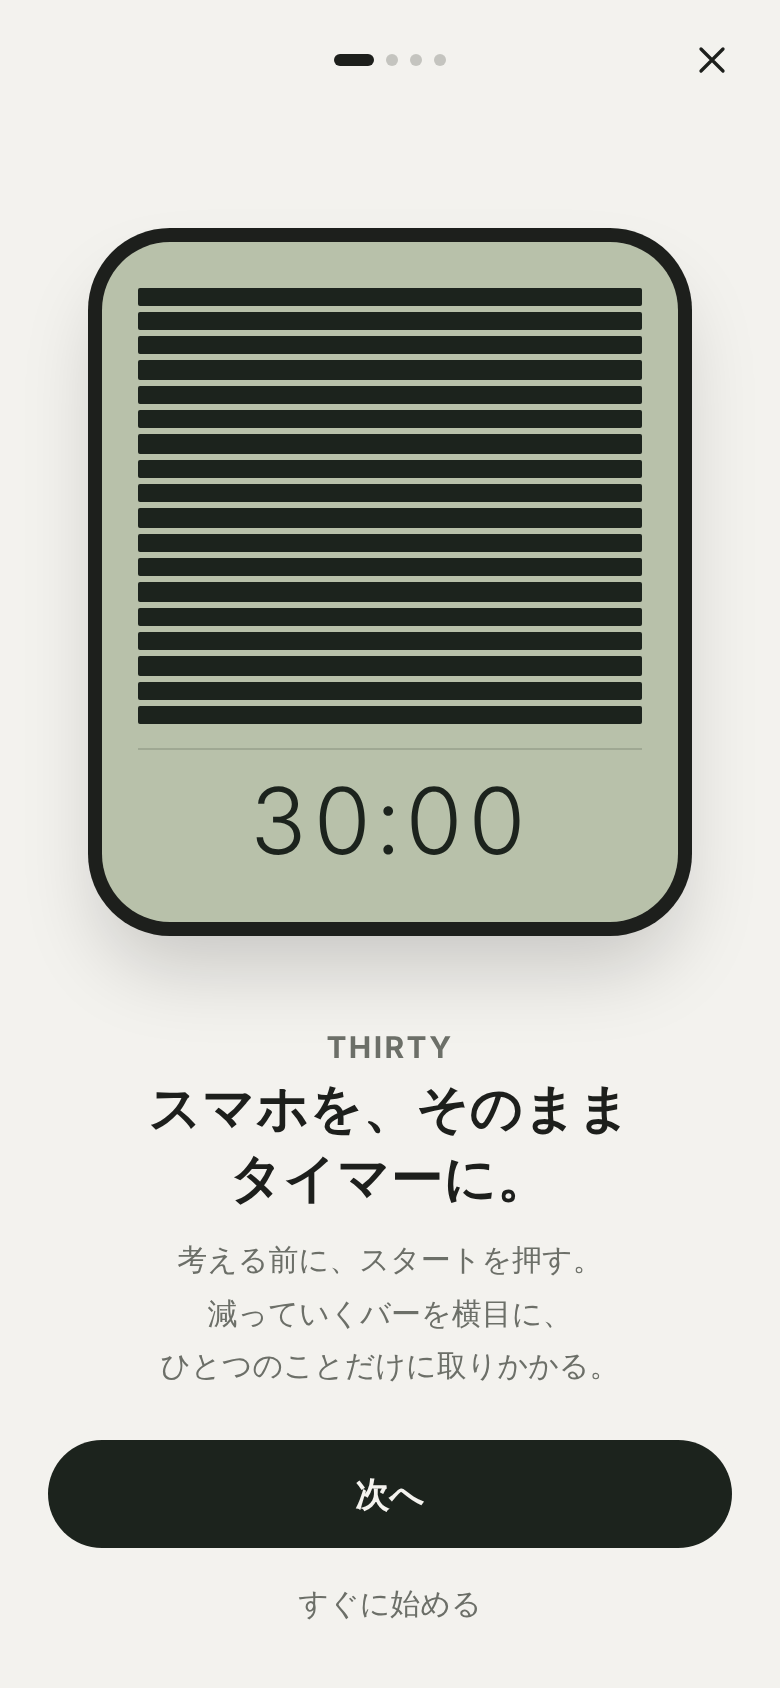
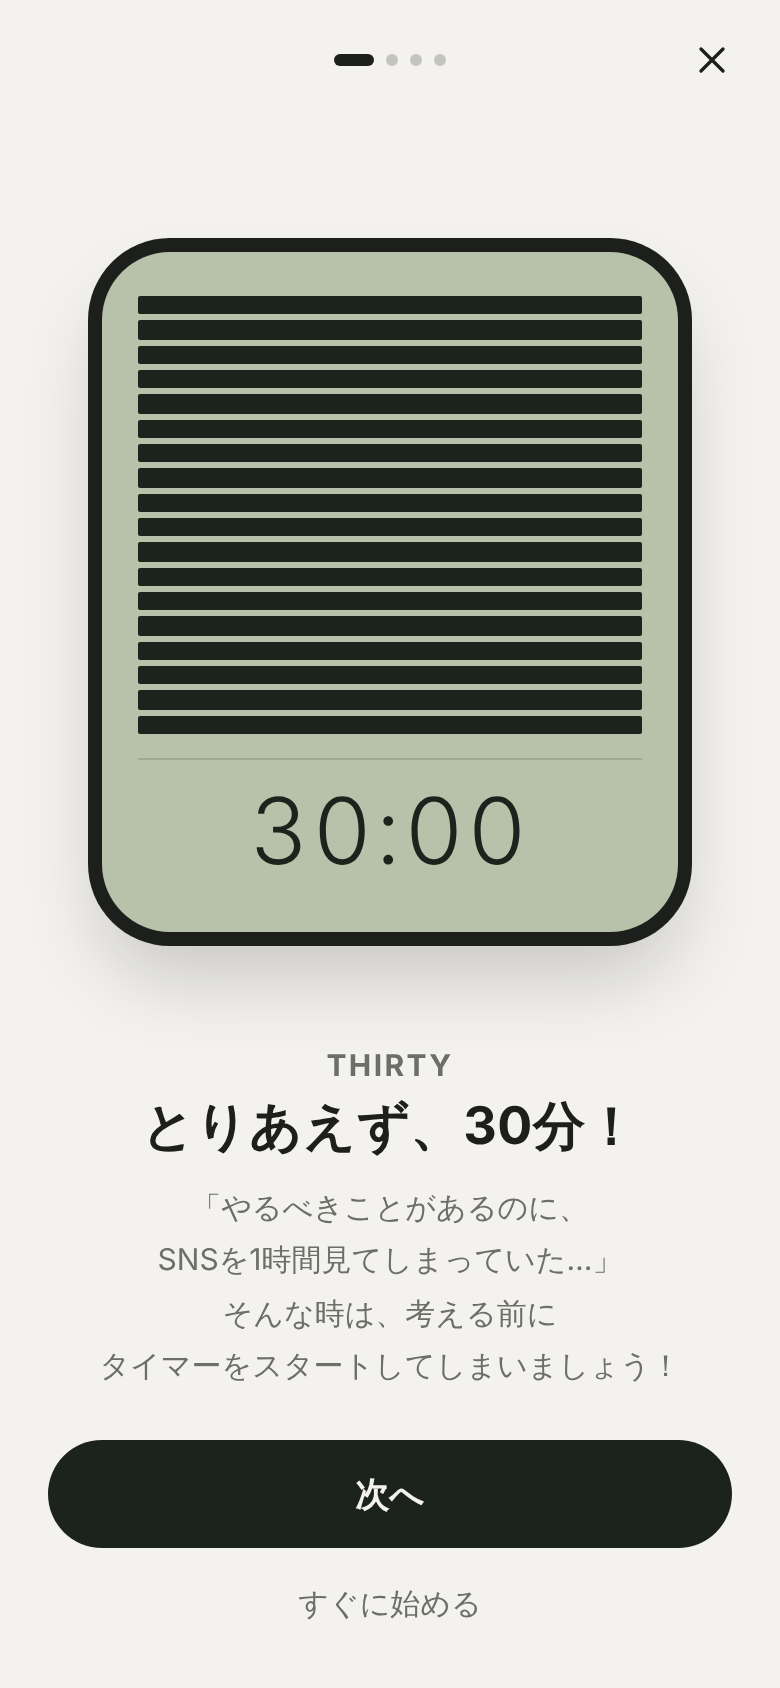
Use the new welcome copy
Claude-Session: https://claude.ai/code/session_01461pZAnVnBA53zFJZoAB8C

Changed region(s): [[0.1231, 0.1232, 0.8923, 0.5853], [0.1846, 0.6161, 0.8, 0.8318], [0.1231, 0.8009, 0.1538, 0.8318]]

diff --git a/preview/app.js b/preview/app.js
@@ -183,7 +183,7 @@ function guide() {
   clearInterval(demo);
   const pages = [
     () => `<div class="visual"><div class="mini" aria-hidden="true"><div class="mbars">${'<i></i>'.repeat(18)}</div><div class="mtime">30:00</div></div></div>
-      <p class="eyebrow">THIRTY</p><h2>スマホを、そのまま<br>タイマーに。</h2><p>考える前に、スタートを押す。<br>減っていくバーを横目に、<br>ひとつのことだけに取りかかる。</p>`,
+      <p class="eyebrow">THIRTY</p><h2>とりあえず、30分！</h2><p>「やるべきことがあるのに、<br>SNSを1時間見てしまっていた…」<br>そんな時は、考える前に<br>タイマーをスタートしてしまいましょう！</p>`,
     () => `<p class="eyebrow">STEP 1 ・ 任意</p><h2>ほかのアプリに<br>逃げられなくする</h2><p>iPhoneの「アクセスガイド」を使うと、<br>計測中はThirtyから出られなくなります。</p>
       <div class="visual">${crumbs(['設定', 'アクセシビリティ', 'アクセスガイド'])}
       <div class="ios"><div class="ios-row hi">アクセスガイド<span class="toggle"></span></div><div class="ios-note">設定アプリで、このスイッチをオンにします。</div><div class="ios-row">パスコード設定${chev}</div></div></div>

diff --git a/ios/Thirty/GuideView.swift b/ios/Thirty/GuideView.swift
@@ -115,8 +115,8 @@ struct OnboardingGuide: View {
             switch item {
             case .welcome:
                 MiniTimerDemo().frame(maxWidth: 190, maxHeight: 300).padding(.vertical, 20)
-                titleBlock(eyebrow: "THIRTY", title: "スマホを、そのまま\nタイマーに。",
-                           body: "考える前に、スタートを押す。\n減っていくバーを横目に、\nひとつのことだけに取りかかる。")
+                titleBlock(eyebrow: "THIRTY", title: "とりあえず、30分！",
+                           body: "「やるべきことがあるのに、\nSNSを1時間見てしまっていた…」\nそんな時は、考える前に\nタイマーをスタートしてしまいましょう！")
             case .enable:
                 titleBlock(eyebrow: "STEP 1 ・ 任意", title: "ほかのアプリに\n逃げられなくする",
                            body: "iPhoneの「アクセスガイド」を使うと、\n計測中はThirtyから出られなくなります。")
